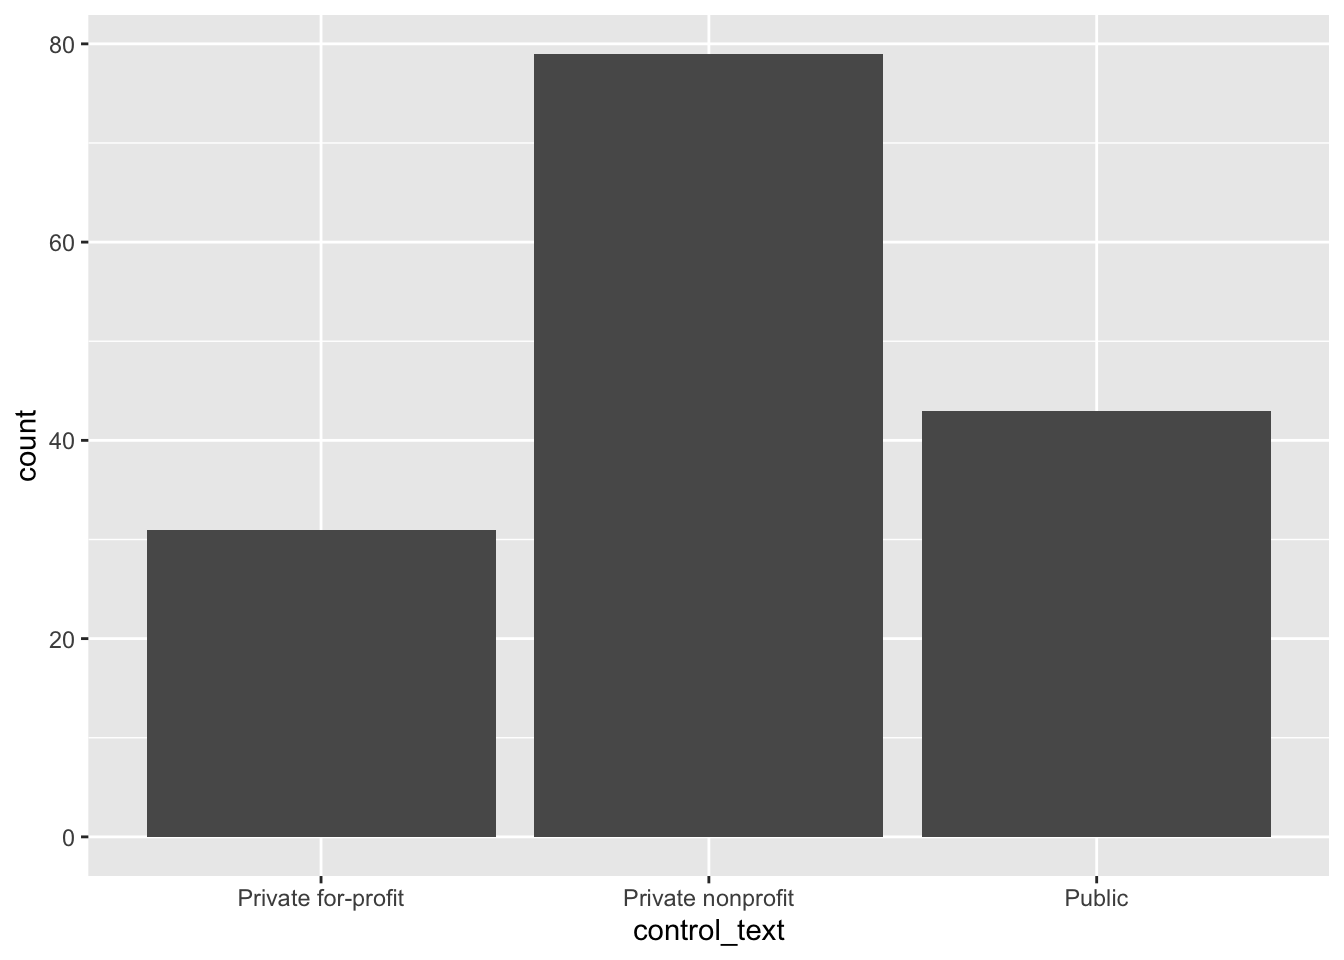
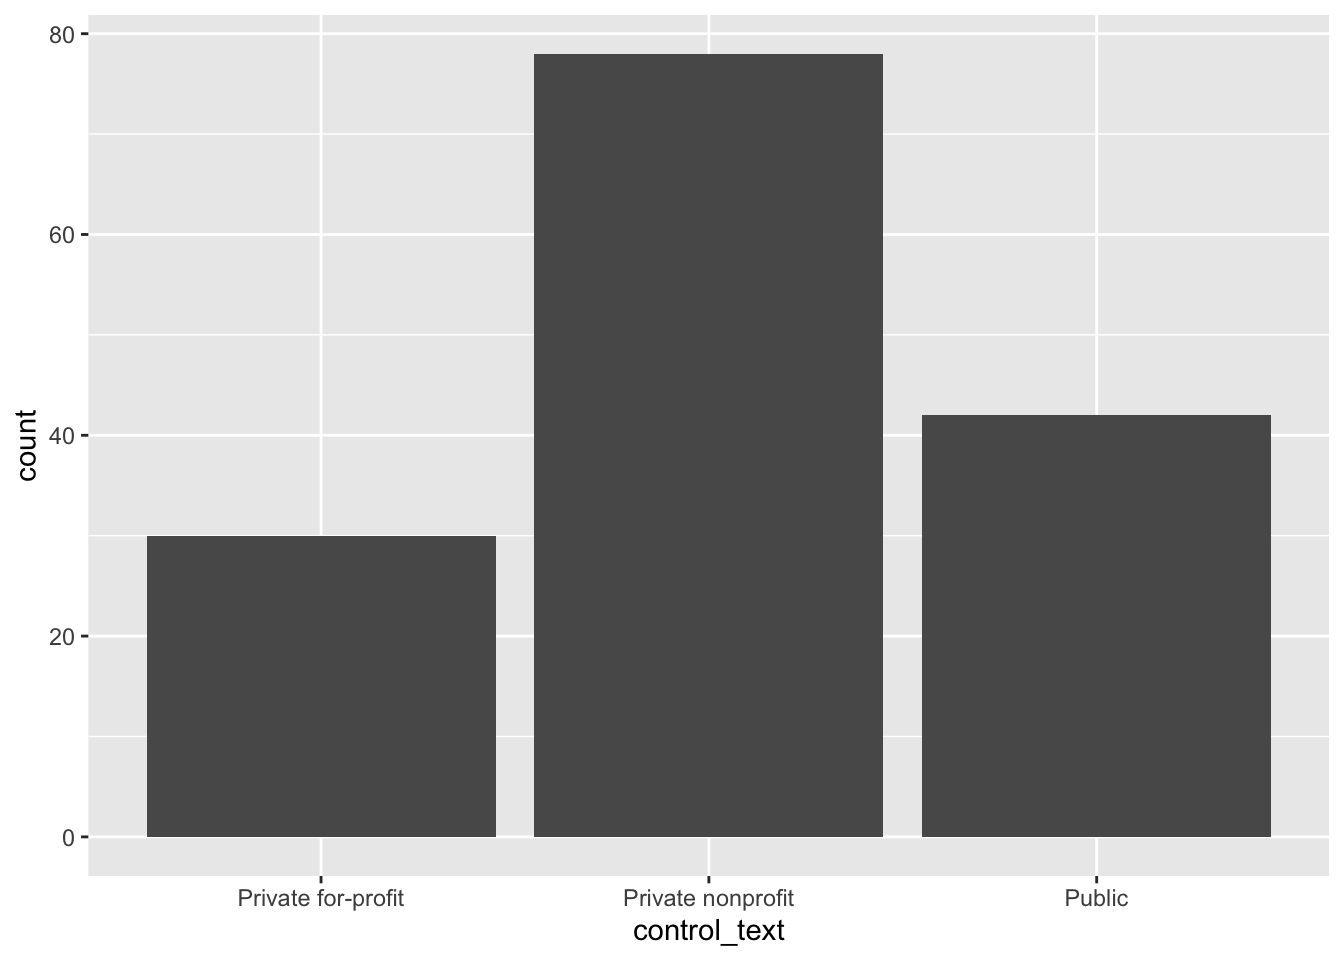
fixed menu for lab 1

diff --git a/docs/labs/lab1.html b/docs/labs/lab1.html
@@ -2,7 +2,7 @@
 <html xmlns="http://www.w3.org/1999/xhtml" lang="en" xml:lang="en"><head>
 
 <meta charset="utf-8">
-<meta name="generator" content="quarto-0.9.342">
+<meta name="generator" content="quarto-1.1.251">
 
 <meta name="viewport" content="width=device-width, initial-scale=1.0, user-scalable=yes">
 
@@ -12,10 +12,15 @@
 <style>
 code{white-space: pre-wrap;}
 span.smallcaps{font-variant: small-caps;}
-span.underline{text-decoration: underline;}
-div.column{display: inline-block; vertical-align: top; width: 50%;}
+div.columns{display: flex; gap: min(4vw, 1.5em);}
+div.column{flex: auto; overflow-x: auto;}
 div.hanging-indent{margin-left: 1.5em; text-indent: -1.5em;}
 ul.task-list{list-style: none;}
+ul.task-list li input[type="checkbox"] {
+  width: 0.8em;
+  margin: 0 0.8em 0.2em -1.6em;
+  vertical-align: middle;
+}
 pre > code.sourceCode { white-space: pre; position: relative; }
 pre > code.sourceCode > span { display: inline-block; line-height: 1.25; }
 pre > code.sourceCode > span:empty { height: 1.2em; }
@@ -54,7 +59,7 @@ code span.al { color: #ff0000; font-weight: bold; } /* Alert */
 code span.an { color: #60a0b0; font-weight: bold; font-style: italic; } /* Annotation */
 code span.at { color: #7d9029; } /* Attribute */
 code span.bn { color: #40a070; } /* BaseN */
-code span.bu { } /* BuiltIn */
+code span.bu { color: #008000; } /* BuiltIn */
 code span.cf { color: #007020; font-weight: bold; } /* ControlFlow */
 code span.ch { color: #4070a0; } /* Char */
 code span.cn { color: #880000; } /* Constant */
@@ -67,7 +72,7 @@ code span.er { color: #ff0000; font-weight: bold; } /* Error */
 code span.ex { } /* Extension */
 code span.fl { color: #40a070; } /* Float */
 code span.fu { color: #06287e; } /* Function */
-code span.im { } /* Import */
+code span.im { color: #008000; font-weight: bold; } /* Import */
 code span.in { color: #60a0b0; font-weight: bold; font-style: italic; } /* Information */
 code span.kw { color: #007020; font-weight: bold; } /* Keyword */
 code span.op { color: #666666; } /* Operator */
@@ -81,22 +86,23 @@ code span.vs { color: #4070a0; } /* VerbatimString */
 code span.wa { color: #60a0b0; font-weight: bold; font-style: italic; } /* Warning */
 </style>
 
+
 <script src="../site_libs/quarto-nav/quarto-nav.js"></script>
 <script src="../site_libs/quarto-nav/headroom.min.js"></script>
 <script src="../site_libs/clipboard/clipboard.min.js"></script>
-<meta name="quarto:offset" content="../">
 <script src="../site_libs/quarto-search/autocomplete.umd.js"></script>
 <script src="../site_libs/quarto-search/fuse.min.js"></script>
 <script src="../site_libs/quarto-search/quarto-search.js"></script>
+<meta name="quarto:offset" content="../">
 <script src="../site_libs/quarto-html/quarto.js"></script>
 <script src="../site_libs/quarto-html/popper.min.js"></script>
 <script src="../site_libs/quarto-html/tippy.umd.min.js"></script>
 <script src="../site_libs/quarto-html/anchor.min.js"></script>
 <link href="../site_libs/quarto-html/tippy.css" rel="stylesheet">
-<link id="quarto-text-highlighting-styles" href="../site_libs/quarto-html/quarto-syntax-highlighting.css" rel="stylesheet">
+<link href="../site_libs/quarto-html/quarto-syntax-highlighting.css" rel="stylesheet" id="quarto-text-highlighting-styles">
 <script src="../site_libs/bootstrap/bootstrap.min.js"></script>
 <link href="../site_libs/bootstrap/bootstrap-icons.css" rel="stylesheet">
-<link href="../site_libs/bootstrap/bootstrap.min.css" rel="stylesheet">
+<link href="../site_libs/bootstrap/bootstrap.min.css" rel="stylesheet" id="quarto-bootstrap" data-mode="light">
 <script id="quarto-search-options" type="application/json">{
   "location": "navbar",
   "copy-button": false,
@@ -127,9 +133,11 @@ code span.wa { color: #60a0b0; font-weight: bold; font-style: italic; } /* Warni
   <header id="quarto-header" class="headroom fixed-top">
     <nav class="navbar navbar-expand-lg navbar-dark ">
       <div class="navbar-container container-fluid">
-      <a class="navbar-brand" href="../index.html">
+      <div class="navbar-brand-container">
+    <a class="navbar-brand" href="../index.html">
     <span class="navbar-title">SDS 192: Intro to Data Science</span>
-  </a>
+    </a>
+  </div>
           <button class="navbar-toggler" type="button" data-bs-toggle="collapse" data-bs-target="#navbarCollapse" aria-controls="navbarCollapse" aria-expanded="false" aria-label="Toggle navigation" onclick="if (window.quartoToggleHeadroom) { window.quartoToggleHeadroom(); }">
   <span class="navbar-toggler-icon"></span>
 </button>
@@ -140,6 +148,9 @@ code span.wa { color: #60a0b0; font-weight: bold; font-style: italic; } /* Warni
   </li>  
   <li class="nav-item">
     <a class="nav-link" href="../grading_contract.html">Standards Grading</a>
+  </li>  
+  <li class="nav-item">
+    <a class="nav-link" href="../labs.html">Labs</a>
   </li>  
   <li class="nav-item">
     <a class="nav-link" href="../schedule.html">Schedule</a>
@@ -155,7 +166,7 @@ code span.wa { color: #60a0b0; font-weight: bold; font-style: italic; } /* Warni
 <!-- sidebar -->
 <!-- margin-sidebar -->
     <div id="quarto-margin-sidebar" class="sidebar margin-sidebar">
-        <nav id="TOC" role="doc-toc">
+        <nav id="TOC" role="doc-toc" class="toc-active">
     <h2 id="toc-title">On this page</h2>
    
   <ul>
@@ -185,8 +196,6 @@ code span.wa { color: #60a0b0; font-weight: bold; font-style: italic; } /* Warni
 <div class="quarto-title">
 <h1 class="title">Lab 1: Understanding Datasets</h1>
 </div>
-
-
 
 
 
@@ -297,39 +306,38 @@ code span.wa { color: #60a0b0; font-weight: bold; font-style: italic; } /* Warni
 <div class="sourceCode cell-code" id="cb2"><pre class="sourceCode r code-with-copy"><code class="sourceCode r"><span id="cb2-1"><a href="#cb2-1" aria-hidden="true" tabindex="-1"></a><span class="fu">head</span>(scorecard)</span></code><button title="Copy to Clipboard" class="code-copy-button"><i class="bi"></i></button></pre></div>
 <div class="cell-output cell-output-stdout">
 <pre><code># A tibble: 6 × 15
-  unitid instnm       city  highdeg control  ugds adm_r…¹ costt…² costt…³ pcip27
-   &lt;int&gt; &lt;chr&gt;        &lt;chr&gt;   &lt;int&gt;   &lt;int&gt; &lt;int&gt;   &lt;dbl&gt;   &lt;int&gt;   &lt;int&gt;  &lt;dbl&gt;
-1 164368 Hult Intern… Camb…       4       2   574   0.571   60090      NA 0     
-2 164447 American In… Spri…       4       2  1307   0.684   47742      NA 0     
-3 164465 Amherst Col… Amhe…       3       2  1855   0.128   71300      NA 0.110 
-4 164492 Anna Maria … Paxt…       4       2  1131   0.736   51109      NA 0     
-5 164535 Assabet Val… Marl…       1       1    50   0.452      NA   19703 0     
-6 164562 Assumption … Worc…       4       2  2014   0.811   53303      NA 0.0162
-# … with 5 more variables: pctfloan &lt;dbl&gt;, admcon7 &lt;int&gt;,
-#   wdraw_orig_yr2_rt &lt;dbl&gt;, cdr3 &lt;dbl&gt;, year &lt;dbl&gt;, and abbreviated variable
-#   names ¹adm_rate, ²costt4_a, ³costt4_p</code></pre>
+  unitid instnm    city  highdeg control  ugds adm_rate costt4_a costt4_p pcip27
+   &lt;int&gt; &lt;chr&gt;     &lt;chr&gt;   &lt;int&gt;   &lt;int&gt; &lt;int&gt;    &lt;dbl&gt;    &lt;int&gt;    &lt;int&gt;  &lt;dbl&gt;
+1 164368 Hult Int… Camb…       4       2   574    0.571    60090       NA 0     
+2 164447 American… Spri…       4       2  1307    0.684    47742       NA 0     
+3 164465 Amherst … Amhe…       3       2  1855    0.128    71300       NA 0.110 
+4 164492 Anna Mar… Paxt…       4       2  1131    0.736    51109       NA 0     
+5 164535 Assabet … Marl…       1       1    50    0.452       NA    19703 0     
+6 164562 Assumpti… Worc…       4       2  2014    0.811    53303       NA 0.0162
+# ℹ 5 more variables: pctfloan &lt;dbl&gt;, admcon7 &lt;int&gt;, wdraw_orig_yr2_rt &lt;dbl&gt;,
+#   cdr3 &lt;dbl&gt;, year &lt;dbl&gt;</code></pre>
 </div>
 </div>
 <p><code>str()</code> provides a great deal of information about the observations in the data frame, including the number of variables, the number of observations, the column names, their data types, and a list of observations.</p>
 <div class="cell">
 <div class="sourceCode cell-code" id="cb4"><pre class="sourceCode r code-with-copy"><code class="sourceCode r"><span id="cb4-1"><a href="#cb4-1" aria-hidden="true" tabindex="-1"></a><span class="fu">str</span>(scorecard)</span></code><button title="Copy to Clipboard" class="code-copy-button"><i class="bi"></i></button></pre></div>
 <div class="cell-output cell-output-stdout">
-<pre><code>tibble [153 × 15] (S3: tbl_df/tbl/data.frame)
- $ unitid           : int [1:153] 164368 164447 164465 164492 164535 164562 164580 164599 164614 164632 ...
- $ instnm           : chr [1:153] "Hult International Business School" "American International College" "Amherst College" "Anna Maria College" ...
- $ city             : chr [1:153] "Cambridge" "Springfield" "Amherst" "Paxton" ...
- $ highdeg          : int [1:153] 4 4 3 4 1 4 4 1 3 4 ...
- $ control          : int [1:153] 2 2 2 2 1 2 2 3 2 2 ...
- $ ugds             : int [1:153] 574 1307 1855 1131 50 2014 2361 45 56 1921 ...
- $ adm_rate         : num [1:153] 0.571 0.684 0.128 0.736 0.452 ...
- $ costt4_a         : int [1:153] 60090 47742 71300 51109 NA 53303 68482 NA 26691 46315 ...
- $ costt4_p         : int [1:153] NA NA NA NA 19703 NA NA NA NA NA ...
- $ pcip27           : num [1:153] 0 0 0.11 0 0 ...
- $ pctfloan         : num [1:153] 0.0566 0.8333 0.1661 0.7464 0.4286 ...
- $ admcon7          : int [1:153] 3 5 1 3 3 3 1 NA 1 5 ...
- $ wdraw_orig_yr2_rt: num [1:153] NA 0.181 0.124 0.129 NA ...
- $ cdr3             : num [1:153] 0.043 0.073 0.014 0.073 0.065 0.044 0.019 0.06 0.024 0.048 ...
- $ year             : num [1:153] 2018 2018 2018 2018 2018 ...</code></pre>
+<pre><code>tibble [150 × 15] (S3: tbl_df/tbl/data.frame)
+ $ unitid           : int [1:150] 164368 164447 164465 164492 164535 164562 164580 164599 164614 164632 ...
+ $ instnm           : chr [1:150] "Hult International Business School" "American International College" "Amherst College" "Anna Maria College" ...
+ $ city             : chr [1:150] "Cambridge" "Springfield" "Amherst" "Paxton" ...
+ $ highdeg          : int [1:150] 4 4 3 4 1 4 4 1 3 4 ...
+ $ control          : int [1:150] 2 2 2 2 1 2 2 3 2 2 ...
+ $ ugds             : int [1:150] 574 1307 1855 1131 50 2014 2361 45 56 1921 ...
+ $ adm_rate         : num [1:150] 0.571 0.684 0.128 0.736 0.452 ...
+ $ costt4_a         : int [1:150] 60090 47742 71300 51109 NA 53303 68482 NA 26691 46315 ...
+ $ costt4_p         : int [1:150] NA NA NA NA 19703 NA NA NA NA NA ...
+ $ pcip27           : num [1:150] 0 0 0.11 0 0 ...
+ $ pctfloan         : num [1:150] 0.0566 0.8333 0.1661 0.7464 0.4286 ...
+ $ admcon7          : int [1:150] 3 5 1 3 3 3 1 NA 1 5 ...
+ $ wdraw_orig_yr2_rt: num [1:150] NA 0.181 0.124 0.129 NA ...
+ $ cdr3             : num [1:150] 0.043 0.073 0.014 0.073 0.065 0.044 0.019 0.06 0.024 0.048 ...
+ $ year             : num [1:150] 2018 2018 2018 2018 2018 ...</code></pre>
 </div>
 </div>
 <p>You can also click on the name of your data frame in your Environment panel in RStudio, and it will open a new tab in RStudio that displays the data in a tabular format. Try clicking on <code>scorecard</code> in your Environment panel.</p>
@@ -486,31 +494,31 @@ Why not use name as a unique key?
 <div class="sourceCode cell-code" id="cb14"><pre class="sourceCode r code-with-copy"><code class="sourceCode r"><span id="cb14-1"><a href="#cb14-1" aria-hidden="true" tabindex="-1"></a><span class="fu">is.na</span>(scorecard<span class="sc">$</span>wdraw_orig_yr2_rt)</span></code><button title="Copy to Clipboard" class="code-copy-button"><i class="bi"></i></button></pre></div>
 <div class="cell-output cell-output-stdout">
 <pre><code>  [1]  TRUE FALSE FALSE FALSE  TRUE FALSE FALSE  TRUE  TRUE FALSE FALSE FALSE
- [13] FALSE FALSE FALSE FALSE FALSE  TRUE FALSE FALSE FALSE FALSE FALSE  TRUE
- [25] FALSE FALSE FALSE  TRUE FALSE FALSE  TRUE FALSE FALSE FALSE  TRUE FALSE
- [37] FALSE FALSE FALSE FALSE  TRUE FALSE FALSE FALSE FALSE FALSE  TRUE FALSE
- [49] FALSE FALSE  TRUE  TRUE FALSE FALSE FALSE FALSE FALSE FALSE  TRUE FALSE
- [61] FALSE FALSE FALSE FALSE FALSE FALSE FALSE  TRUE  TRUE  TRUE FALSE FALSE
- [73]  TRUE FALSE FALSE FALSE FALSE  TRUE  TRUE  TRUE  TRUE FALSE FALSE  TRUE
- [85] FALSE FALSE FALSE FALSE FALSE  TRUE FALSE FALSE FALSE FALSE  TRUE FALSE
- [97] FALSE FALSE FALSE FALSE FALSE FALSE FALSE FALSE FALSE  TRUE FALSE  TRUE
-[109] FALSE FALSE FALSE FALSE FALSE FALSE FALSE FALSE  TRUE FALSE  TRUE  TRUE
-[121]  TRUE  TRUE  TRUE FALSE  TRUE  TRUE FALSE  TRUE FALSE FALSE FALSE  TRUE
-[133]  TRUE FALSE  TRUE FALSE FALSE FALSE  TRUE  TRUE  TRUE  TRUE  TRUE FALSE
-[145] FALSE  TRUE FALSE  TRUE  TRUE FALSE  TRUE FALSE FALSE</code></pre>
+ [13] FALSE FALSE FALSE FALSE  TRUE FALSE FALSE FALSE FALSE FALSE  TRUE FALSE
+ [25] FALSE FALSE  TRUE FALSE FALSE  TRUE FALSE FALSE FALSE  TRUE FALSE FALSE
+ [37] FALSE FALSE FALSE  TRUE FALSE FALSE FALSE FALSE FALSE  TRUE FALSE FALSE
+ [49] FALSE  TRUE  TRUE FALSE FALSE FALSE FALSE FALSE FALSE  TRUE FALSE FALSE
+ [61] FALSE FALSE FALSE FALSE FALSE FALSE  TRUE  TRUE  TRUE FALSE FALSE  TRUE
+ [73] FALSE FALSE FALSE FALSE  TRUE  TRUE  TRUE  TRUE FALSE FALSE  TRUE FALSE
+ [85] FALSE FALSE FALSE FALSE  TRUE FALSE FALSE FALSE FALSE  TRUE FALSE FALSE
+ [97] FALSE FALSE FALSE FALSE FALSE FALSE FALSE FALSE  TRUE FALSE  TRUE FALSE
+[109] FALSE FALSE FALSE FALSE FALSE FALSE FALSE  TRUE FALSE  TRUE  TRUE  TRUE
+[121]  TRUE  TRUE FALSE  TRUE  TRUE FALSE  TRUE FALSE FALSE  TRUE  TRUE FALSE
+[133]  TRUE FALSE FALSE  TRUE  TRUE  TRUE  TRUE  TRUE FALSE FALSE  TRUE FALSE
+[145]  TRUE  TRUE FALSE  TRUE  TRUE FALSE</code></pre>
 </div>
 </div>
 <p>When we <code>sum()</code> across a logical vector, <code>R</code> will calculate the number of <code>TRUE</code> values in the vector.</p>
 <div class="cell">
 <div class="sourceCode cell-code" id="cb16"><pre class="sourceCode r code-with-copy"><code class="sourceCode r"><span id="cb16-1"><a href="#cb16-1" aria-hidden="true" tabindex="-1"></a><span class="fu">sum</span>(<span class="fu">is.na</span>(scorecard<span class="sc">$</span>wdraw_orig_yr2_rt))</span></code><button title="Copy to Clipboard" class="code-copy-button"><i class="bi"></i></button></pre></div>
 <div class="cell-output cell-output-stdout">
-<pre><code>[1] 48</code></pre>
+<pre><code>[1] 49</code></pre>
 </div>
 <div class="sourceCode cell-code" id="cb18"><pre class="sourceCode r code-with-copy"><code class="sourceCode r"><span id="cb18-1"><a href="#cb18-1" aria-hidden="true" tabindex="-1"></a><span class="co"># Note that this is the same as:</span></span>
 <span id="cb18-2"><a href="#cb18-2" aria-hidden="true" tabindex="-1"></a></span>
 <span id="cb18-3"><a href="#cb18-3" aria-hidden="true" tabindex="-1"></a>scorecard<span class="sc">$</span>wdraw_orig_yr2_rt <span class="sc">|&gt;</span> <span class="fu">is.na</span>() <span class="sc">|&gt;</span> <span class="fu">sum</span>()</span></code><button title="Copy to Clipboard" class="code-copy-button"><i class="bi"></i></button></pre></div>
 <div class="cell-output cell-output-stdout">
-<pre><code>[1] 48</code></pre>
+<pre><code>[1] 49</code></pre>
 </div>
 </div>
 <section id="question-4" class="level6">
@@ -559,6 +567,24 @@ Ethical Considerations
 </main> <!-- /main -->
 <script id="quarto-html-after-body" type="application/javascript">
 window.document.addEventListener("DOMContentLoaded", function (event) {
+  const toggleBodyColorMode = (bsSheetEl) => {
+    const mode = bsSheetEl.getAttribute("data-mode");
+    const bodyEl = window.document.querySelector("body");
+    if (mode === "dark") {
+      bodyEl.classList.add("quarto-dark");
+      bodyEl.classList.remove("quarto-light");
+    } else {
+      bodyEl.classList.add("quarto-light");
+      bodyEl.classList.remove("quarto-dark");
+    }
+  }
+  const toggleBodyColorPrimary = () => {
+    const bsSheetEl = window.document.querySelector("link#quarto-bootstrap");
+    if (bsSheetEl) {
+      toggleBodyColorMode(bsSheetEl);
+    }
+  }
+  toggleBodyColorPrimary();  
   const icon = "";
   const anchorJS = new window.AnchorJS();
   anchorJS.options = {
@@ -608,7 +634,8 @@ window.document.addEventListener("DOMContentLoaded", function (event) {
   for (var i=0; i<noterefs.length; i++) {
     const ref = noterefs[i];
     tippyHover(ref, function() {
-      let href = ref.getAttribute('href');
+      // use id or data attribute instead here
+      let href = ref.getAttribute('data-footnote-href') || ref.getAttribute('href');
       try { href = new URL(href).hash; } catch {}
       const id = href.replace(/^#\/?/, "");
       const note = window.document.getElementById(id);
